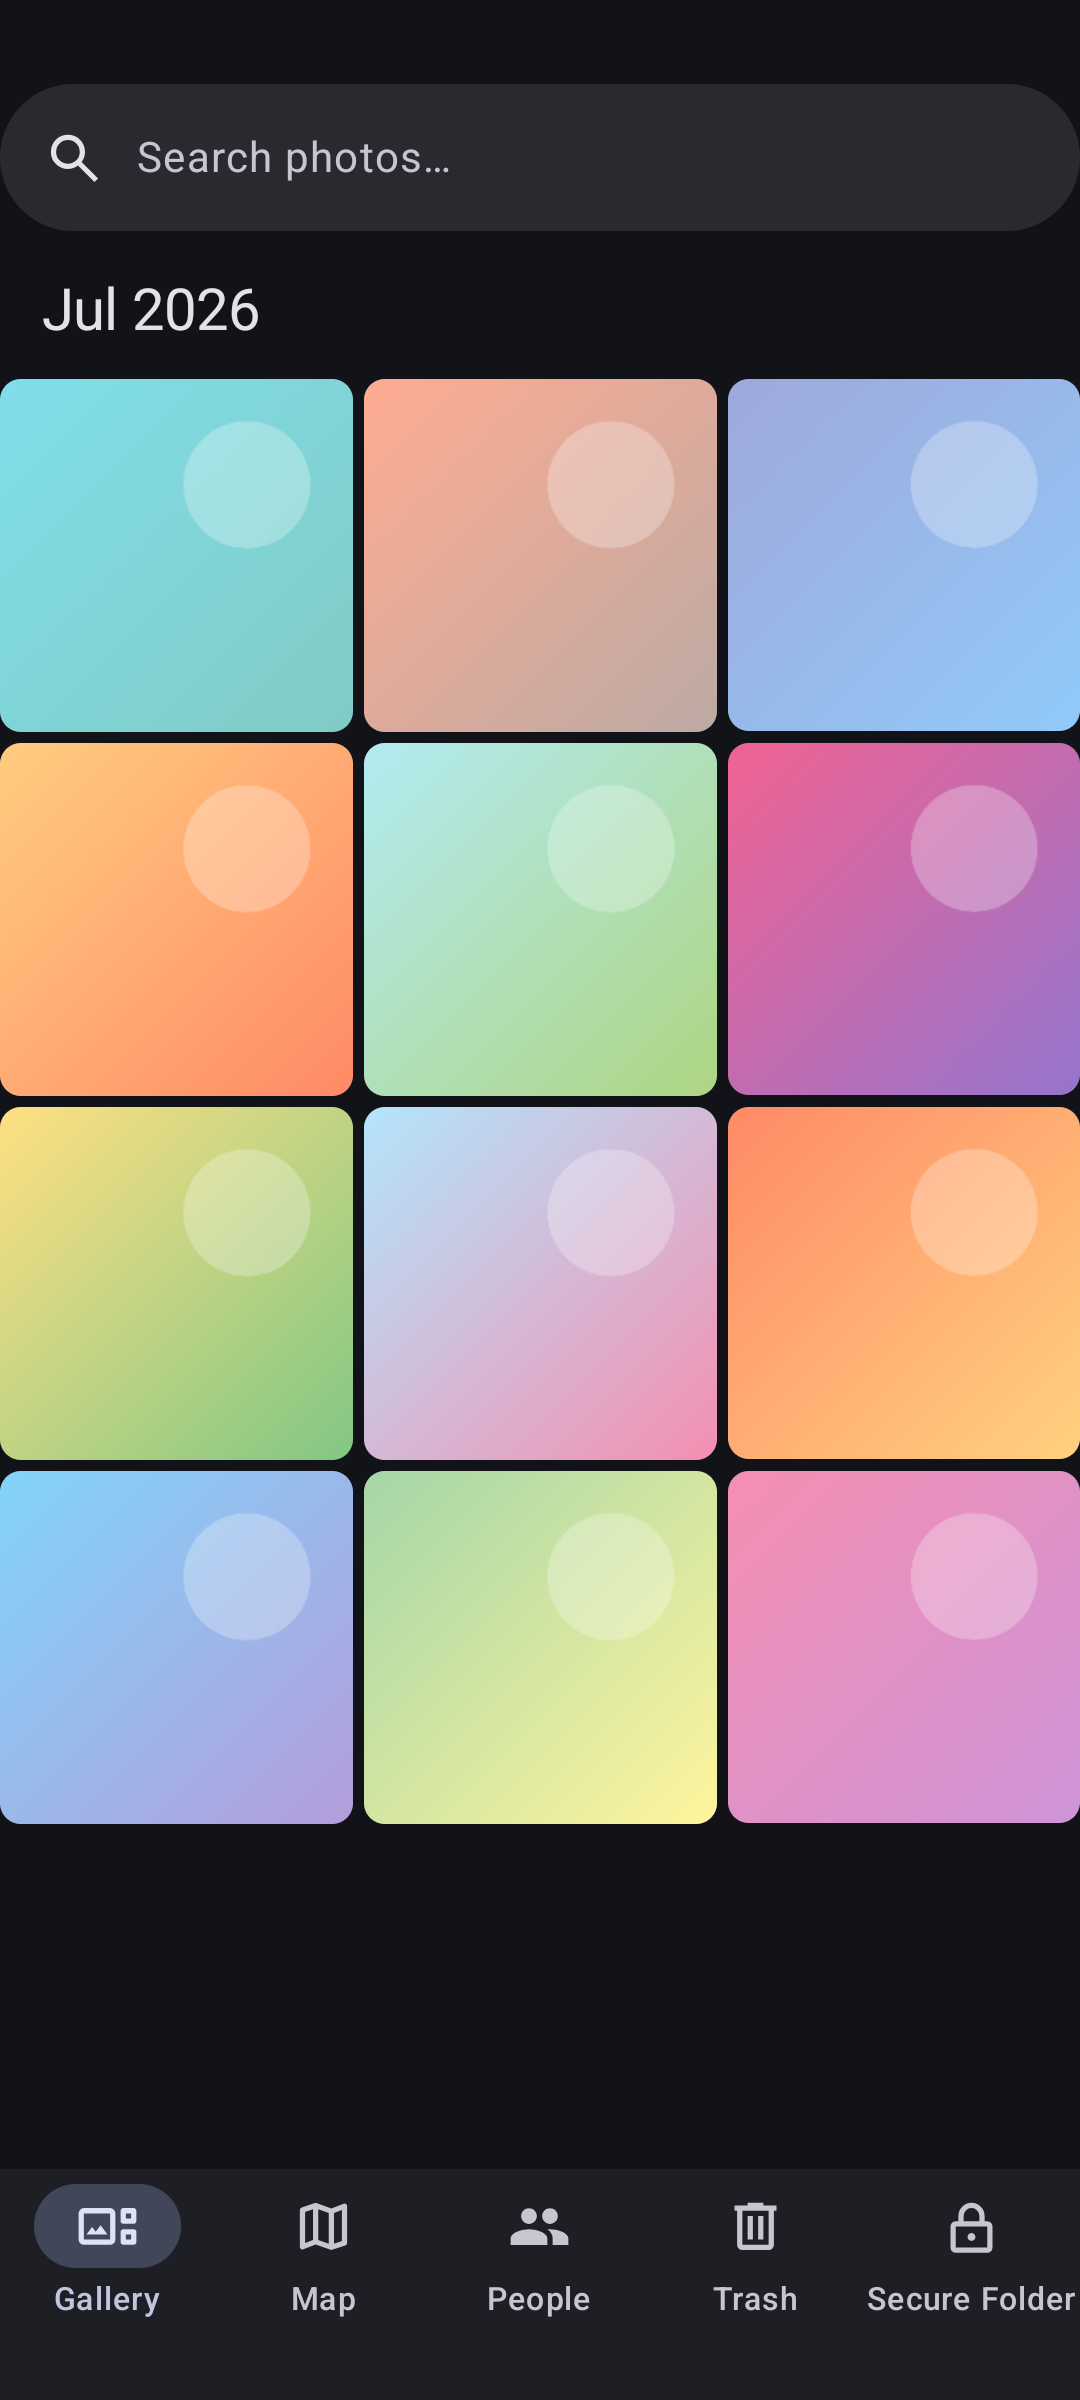
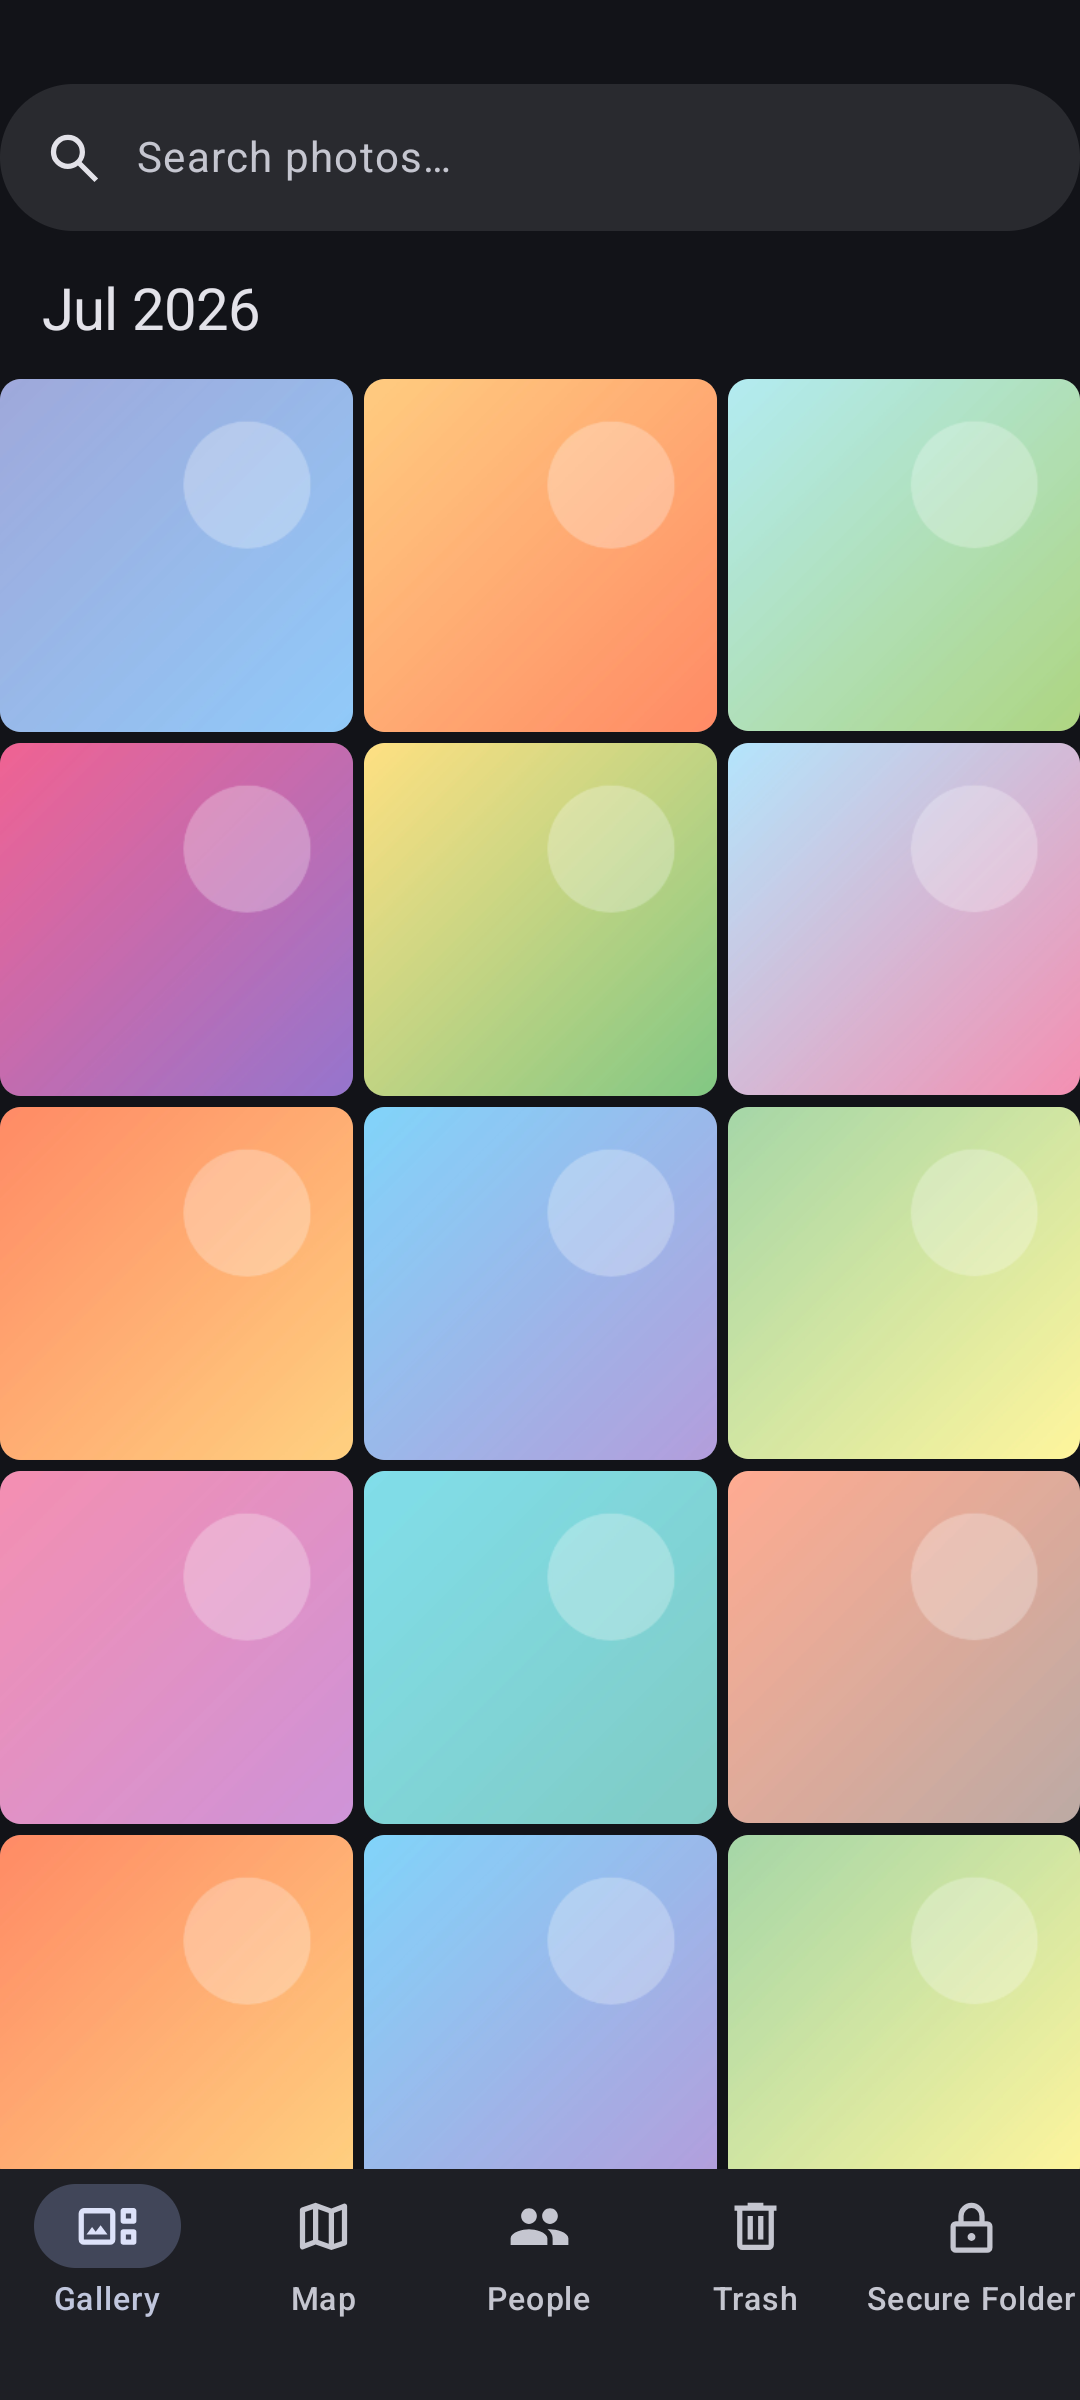
photos: updated automated screenshot generation

diff --git a/photos/src/androidTest/java/com/vayunmathur/photos/MetadataScreenshots.kt b/photos/src/androidTest/java/com/vayunmathur/photos/MetadataScreenshots.kt
@@ -8,21 +8,29 @@ import android.graphics.LinearGradient
 import android.graphics.Paint
 import android.graphics.Shader
 import android.provider.MediaStore
+import android.view.accessibility.AccessibilityNodeInfo
 import androidx.compose.ui.graphics.asAndroidBitmap
 import androidx.compose.ui.test.captureToImage
 import androidx.compose.ui.test.junit4.createEmptyComposeRule
 import androidx.compose.ui.test.onRoot
+import androidx.exifinterface.media.ExifInterface
 import androidx.test.core.app.ActivityScenario
 import androidx.test.ext.junit.runners.AndroidJUnit4
 import androidx.test.platform.app.InstrumentationRegistry
+import com.vayunmathur.library.util.buildDatabase
+import com.vayunmathur.photos.data.PhotoDatabase
+import com.vayunmathur.photos.util.setExifData
+import com.vayunmathur.photos.util.syncPhotos
+import kotlinx.coroutines.runBlocking
 import org.junit.Rule
 import org.junit.Test
 import org.junit.runner.RunWith
 import java.io.File
 
 /**
- * Screenshot generator driven by `:photos:metadata`. Seeds a set of colorful images into
- * MediaStore before launch, then captures the gallery grid.
+ * Screenshot generator driven by `:photos:metadata`. Seeds a set of colourful geotagged
+ * JPEGs into MediaStore, indexes them into the app DB, then captures the gallery grid and
+ * the map (clustered markers).
  */
 @RunWith(AndroidJUnit4::class)
 class MetadataScreenshots {
@@ -30,7 +38,8 @@ class MetadataScreenshots {
     @get:Rule
     val composeRule = createEmptyComposeRule()
 
-    private val ctx = InstrumentationRegistry.getInstrumentation().targetContext
+    private val instrumentation = InstrumentationRegistry.getInstrumentation()
+    private val ctx = instrumentation.targetContext
 
     private val outDir: File by lazy {
         File(ctx.getExternalFilesDir(null), "metadata_screenshots").apply {
@@ -46,6 +55,14 @@ class MetadataScreenshots {
         }
     }
 
+    /** Full-device screenshot (needed for the GL/SurfaceView MapLibre map). */
+    private fun snapDevice(index: Int) {
+        val bmp = instrumentation.uiAutomation.takeScreenshot()
+        File(outDir, "$index.png").outputStream().use { out ->
+            bmp.compress(Bitmap.CompressFormat.PNG, 100, out)
+        }
+    }
+
     private fun gradientBitmap(top: Int, bottom: Int): Bitmap {
         val size = 900
         val bmp = Bitmap.createBitmap(size, size, Bitmap.Config.ARGB_8888)
@@ -57,6 +74,16 @@ class MetadataScreenshots {
         // A soft circle accent so thumbnails look photographic rather than flat.
         canvas.drawCircle(size * 0.7f, size * 0.3f, size * 0.18f, Paint().apply { color = Color.argb(70, 255, 255, 255) })
         return bmp
+    }
+
+    /** Remove images seeded by a previous run so reruns don't accumulate duplicates. */
+    private fun deleteSeeded() {
+        val collection = MediaStore.Images.Media.getContentUri(MediaStore.VOLUME_EXTERNAL_PRIMARY)
+        ctx.contentResolver.delete(
+            collection,
+            "${MediaStore.Images.Media.DISPLAY_NAME} LIKE ?",
+            arrayOf("$NAME_PREFIX%"),
+        )
     }
 
     private fun seedImages() {
@@ -79,15 +106,26 @@ class MetadataScreenshots {
         val now = System.currentTimeMillis()
         palettes.forEachIndexed { i, (top, bottom) ->
             val values = ContentValues().apply {
-                put(MediaStore.Images.Media.DISPLAY_NAME, "sample_${i + 1}.png")
-                put(MediaStore.Images.Media.MIME_TYPE, "image/png")
+                put(MediaStore.Images.Media.DISPLAY_NAME, "$NAME_PREFIX${i + 1}.jpg")
+                put(MediaStore.Images.Media.MIME_TYPE, "image/jpeg")
                 put(MediaStore.Images.Media.RELATIVE_PATH, "DCIM/Camera")
                 put(MediaStore.Images.Media.DATE_TAKEN, now - i * 3_600_000L)
                 put(MediaStore.Images.Media.IS_PENDING, 1)
             }
             val uri = resolver.insert(collection, values) ?: return@forEachIndexed
             resolver.openOutputStream(uri)!!.use { out ->
-                gradientBitmap(top, bottom).compress(Bitmap.CompressFormat.PNG, 100, out)
+                gradientBitmap(top, bottom).compress(Bitmap.CompressFormat.JPEG, 95, out)
+            }
+            // Geotag: cluster all photos near one city with small offsets. MediaStore
+            // redacts the LATITUDE/LONGITUDE columns on API 29+, so the coordinates must
+            // live in the file's EXIF (the app reads them via setRequireOriginal +
+            // ACCESS_MEDIA_LOCATION).
+            val lat = BASE_LAT + (i % 4) * 0.008
+            val lon = BASE_LON + (i / 4) * 0.008
+            resolver.openFileDescriptor(uri, "rw")!!.use { pfd ->
+                val exif = ExifInterface(pfd.fileDescriptor)
+                exif.setLatLong(lat, lon)
+                exif.saveAttributes()
             }
             values.clear()
             values.put(MediaStore.Images.Media.IS_PENDING, 0)
@@ -95,13 +133,84 @@ class MetadataScreenshots {
         }
     }
 
+    /** Click a bottom-nav item by its label through the accessibility tree (the map's
+     * continuous re-projection loop would otherwise stall Compose's waitForIdle). */
+    private fun clickByText(label: String): Boolean {
+        val ui = instrumentation.uiAutomation
+        repeat(10) {
+            val root: AccessibilityNodeInfo? = ui.rootInActiveWindow
+            if (root != null) {
+                val nodes = root.findAccessibilityNodeInfosByText(label)
+                for (node in nodes) {
+                    var target: AccessibilityNodeInfo? = node
+                    while (target != null && !target.isClickable) target = target.parent
+                    if (target != null) {
+                        target.performAction(AccessibilityNodeInfo.ACTION_CLICK)
+                        return true
+                    }
+                }
+            }
+            Thread.sleep(300)
+        }
+        return false
+    }
+
+    /** Dismiss the system "built for a previous version / 16 KB" warning dialog if shown. */
+    private fun dismissSystemDialog() {
+        val ui = instrumentation.uiAutomation
+        val labels = listOf("Close", "Got it", "OK", "Dismiss", "Cancel")
+        repeat(3) {
+            val root = ui.rootInActiveWindow ?: return
+            for (label in labels) {
+                for (node in root.findAccessibilityNodeInfosByText(label)) {
+                    var target: AccessibilityNodeInfo? = node
+                    while (target != null && !target.isClickable) target = target.parent
+                    if (target != null) {
+                        target.performAction(AccessibilityNodeInfo.ACTION_CLICK)
+                        Thread.sleep(500)
+                        return
+                    }
+                }
+            }
+            Thread.sleep(300)
+        }
+    }
+
     @Test
     fun generateStoreScreenshots() {
+        deleteSeeded()
         seedImages()
+
+        // Index MediaStore into the app's shared Room DB and resolve EXIF GPS directly so
+        // the gallery and map populate deterministically before capture.
+        val db = ctx.buildDatabase<PhotoDatabase>()
+        runBlocking {
+            syncPhotos(ctx, db)
+            setExifData(db.photoDao().getAll(), db, ctx)
+        }
+
         ActivityScenario.launch(MainActivity::class.java).use {
             // Let the gallery index MediaStore and load thumbnails.
             Thread.sleep(6000)
+            // The 16 KB-incompatibility warning can pop over the app on launch; clear it
+            // before capturing or navigating so it neither pollutes the shot nor blocks
+            // the bottom-nav taps.
+            dismissSystemDialog()
             snap(1)
+
+            // Map page: GL-backed MapLibre view. Navigate via accessibility, wait for
+            // tiles + clustered markers to render, then capture the whole screen.
+            dismissSystemDialog()
+            clickByText("Map")
+            Thread.sleep(9000)
+            dismissSystemDialog()
+            snapDevice(2)
         }
+    }
+
+    companion object {
+        private const val NAME_PREFIX = "metadata_sample_"
+        private const val BASE_LAT = 37.7749
+        private const val BASE_LON = -122.4194
     }
 }